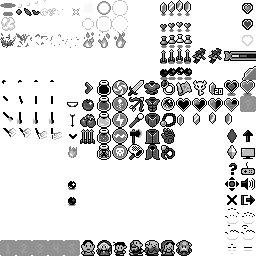
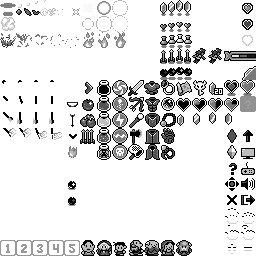
Polish EnemySpawn GameObject, Add EnemySpawns 2 & 3
added enemy spawns 2 and 3 to RBwidget.
playtested, working as expected.
updated the look/style of enemy spawn obj sprites.
playtested, working as expected.

Changed region(s): [[0.0, 0.9375, 0.3125, 1.0]]

diff --git a/GameClasses/WidgetRoomBuilder.cs b/GameClasses/WidgetRoomBuilder.cs
@@ -169,7 +169,18 @@ namespace DungeonRun
                 GameObject enemySpawn = new GameObject(Assets.mainSheet);
                 enemySpawn.compMove.newPosition.X = 16 * i + 8;
                 enemySpawn.compMove.newPosition.Y = 16 * 12;
-                Functions_GameObject.SetType(enemySpawn, ObjType.SpawnEnemy1);
+
+                if (i == 1)
+                { Functions_GameObject.SetType(enemySpawn, ObjType.SpawnEnemy1); }
+                else if (i == 2)
+                { Functions_GameObject.SetType(enemySpawn, ObjType.SpawnEnemy2); }
+                else if (i == 3)
+                { Functions_GameObject.SetType(enemySpawn, ObjType.SpawnEnemy3); }
+                else if (i == 4)
+                { Functions_GameObject.SetType(enemySpawn, ObjType.SpawnEnemy2); }
+                else if (i == 5)
+                { Functions_GameObject.SetType(enemySpawn, ObjType.SpawnEnemy1); }
+
                 Functions_Animation.Animate(enemySpawn.compAnim, enemySpawn.compSprite);
                 objList.Add(enemySpawn); //index 35-39
             }
